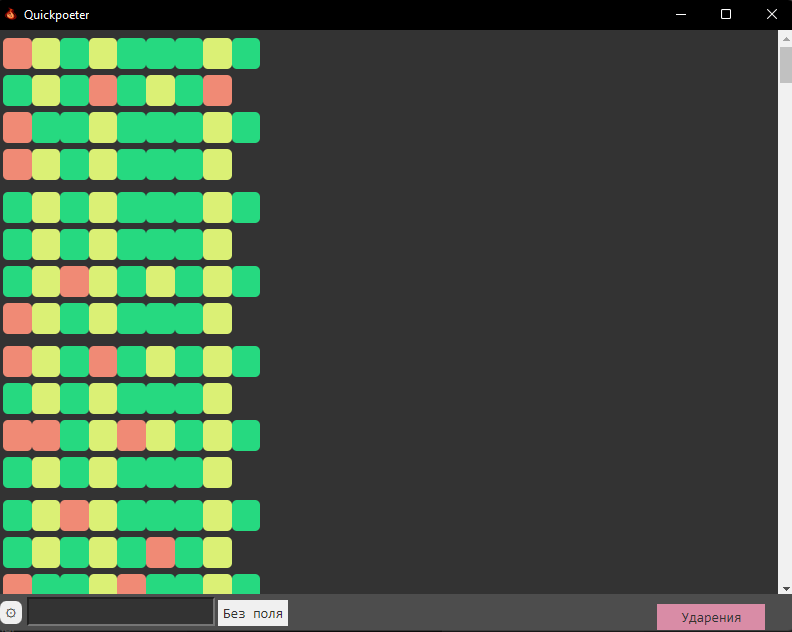
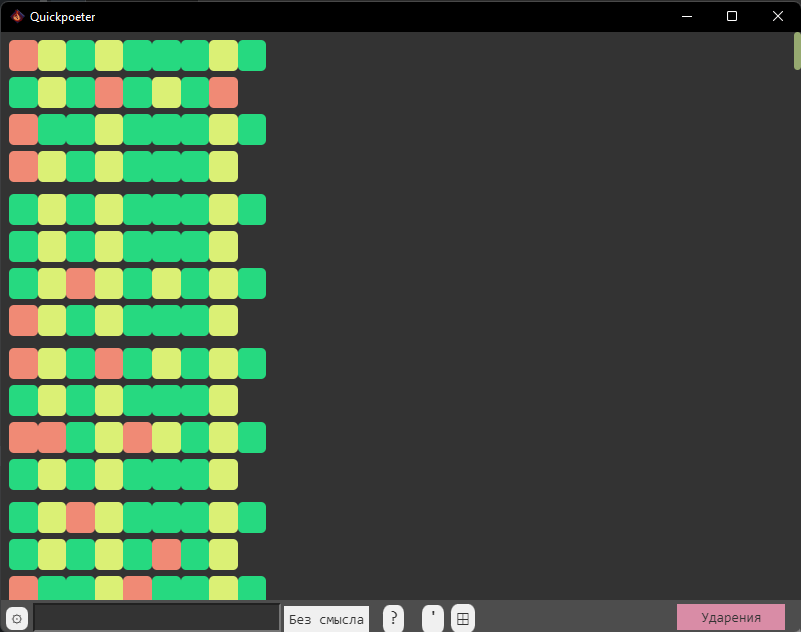
Better theme selection + help + new screens!

Changed region(s): [[0.0, 0.0, 1.0, 1.0]]

diff --git a/dist/renderer.js b/dist/renderer.js
@@ -11,6 +11,23 @@ let readClipText = window.__TAURI__.clipboard.readText;
 let appWindow = window.__TAURI__.window.appWindow;
 
 
+const HELP_TEXT = 'Кнопка справа выбирает стиль подсветки. Можно подсветить ударные слоги, ассонансы и аллитерации.\
+ Первые рекомендуется использовать вместе со структурным видом.<br>\
+Используйте поле ввода слева для поиска рифмы к слову. Можно использовать паттерны, например, "++!"\
+ для поиска трёхсложного слова с ударением на последнем слоге, или "++о\'й"  для таких слов, заканчивающихся на \"-ой\."\
+ Вы можете выбрать смысл подбираемой рифмы. <b>Auto</b> создает смысл по текущему стиху, <b>New</b> позволяет создать собственный смысл\
+ по характерным словам.\
+<br>\
+Горячие клавиши:<br>\
+<b>Ctrl + \'</b> — поставить ударение <br>\
+<b>Ctrl + Space</b> — добавить паузу <br>\
+<b>Ctrl + <</b> — уменьшить длину слога <br>\
+<b>Ctrl + ></b> — увеличить длину слога <br>\
+<b>Alt + V</b> — переключиться в структурный вид <br>\
+<b>Esc</b> — спрятать/показать поле поиска рифмы <br>\
+Обратная связь: <a href="mailto:andr−sitnikov@mail.ru">andr−sitnikov@mail.ru</a>, <a href="github.com/sitandr/quickpoeterUI">GitHub</a>\
+'
+
 function swap_visibility(el, hide_others = false){
     if (el.style.visibility == "hidden" || el.style.visibility == ''){
         if (hide_others){
@@ -51,6 +68,14 @@ function show_error(error_text){
     finder_dropup.appendChild(d);
     hide_all_dropups();
     finder_dropup.style.visibility = "visible";
+}
+
+function show_help(){
+    let d = document.createElement("span");
+    d.innerHTML = HELP_TEXT;
+    finder_dropup.textContent = '';
+    finder_dropup.appendChild(d);
+    swap_visibility(finder_dropup);
 }
 
 async function mutate_settings(){
@@ -154,8 +179,16 @@ render_settings();
 
 let selected_theme = null;
 let available_themes;
+let last_selected_theme = null;
+
+function changeSelectedTheme(new_theme){
+    last_selected_theme.classList.remove('selected')
+    last_selected_theme = new_theme;
+    last_selected_theme.classList.add('selected')
+}
+
 invoke("get_available_themes").then((res) => {
-    res.push("Без поля");
+    res.push("Без смысла");
     res.push("Auto");
     res.push("New");
     available_themes = res;
@@ -164,12 +197,18 @@ invoke("get_available_themes").then((res) => {
         d.appendChild(new Text(theme_name))
         theme_dropup.appendChild(d);
         
-        if (theme_name == "Без поля"){
+        if (theme_name == "Без смысла"){
             d.classList.add("special");
+
+            last_selected_theme = d;
+            d.classList.add("selected");
+
             d.onclick = (e) => {
                 selected_theme = null;
+
+                changeSelectedTheme(d)
                 theme_button.textContent = theme_name;
-                theme_dropup.style.visibility = "hidden";
+                swap_visibility(theme_dropup);
             }
         }
         else if (theme_name == "New"){
@@ -177,8 +216,10 @@ invoke("get_available_themes").then((res) => {
             
             d.onclick = (e) => {
                 swap_visibility(words_dropup);
+                changeSelectedTheme(d)
+
                 selected_theme = theme_name;
-                theme_button.textContent = 'New'
+                theme_button.textContent = theme_name
             }
         }
         else{
@@ -186,9 +227,11 @@ invoke("get_available_themes").then((res) => {
                 d.classList.add("special");
             }
             d.onclick = (e) => {
+                changeSelectedTheme(d)
+
                 selected_theme = theme_name;
                 theme_button.textContent = theme_name;
-                theme_dropup.style.visibility = "hidden";
+                swap_visibility(theme_dropup);
             }
         }
 
@@ -340,6 +383,10 @@ document.getElementsByClassName("structure_button")[0].onclick = (e) => {
 
 document.getElementsByClassName("set_stress_button")[0].onclick = (e) => {
 	ed.addStress();
+}
+
+document.getElementsByClassName("help_button")[0].onclick = (e) => {
+    show_help();
 }
 
 /*document.getElementByClass("full_screen_button")[0].onclick() => {

diff --git a/dist/main.css b/dist/main.css
@@ -121,6 +121,18 @@ footer .finder .dropup div{
     background: hsl(50, 25%, 30%);
 }
 
+footer .finder .dropup span{
+    color: hsl(0, 0%, 80%);
+}
+
+footer .finder .dropup span a{
+    color: deepskyblue;
+}
+
+footer .finder .dropup span b{
+    color: hsl(200, 30%, 60%);
+}
+
 footer>.buttons{
     float: right;
     padding: 0px;
@@ -147,6 +159,10 @@ footer .theme .dropup div{
 	color: hsl(200, 50%, 90%);
     padding-right: 4px;
     padding-left: 4px;
+}
+
+footer .theme .dropup div.selected{
+    border: 3px solid hsl(40, 40%, 70%);
 }
 
 footer .theme button{
@@ -268,6 +284,17 @@ footer .structure_button{
 	font-family: monospace;
 	float: right;
 	margin-left: 3px;
+}
+
+footer .help_button{
+    padding: 3px 6px 6px 6px;
+    margin: 4px;
+    color: hsl(0, 0%, 20%);
+    border-width: 0px;
+    font-size: 0.9em;
+    border-radius: 30%;
+    font-family: monospace;
+    margin-left: 3px;
 }
 
 footer .theme .dropup .dropup{

diff --git a/dist/index.html b/dist/index.html
@@ -22,13 +22,14 @@
           </div>
         </div>
         <div class="theme">
-          <button class="theme_button" title="Выбор смысла рифмы">Без поля</button>
+          <button class="theme_button" title="Выбор смысла рифмы">Без смысла</button>
           <div class="dropup" id="theme_dropup">
             <div class="dropup" id="words_dropup">
               <input id="input_theme_word" pattern="[а-яёА-ЯЁ]">
             </div>
           </div>
         </div>
+        <button class="help_button" title="Помощь">?</button>
         <button class="structure_button" title="Переключиться в структурный вид">⊞</button>
         <button class="set_stress_button" title="Поставить ударение">'</button>
       </div>
